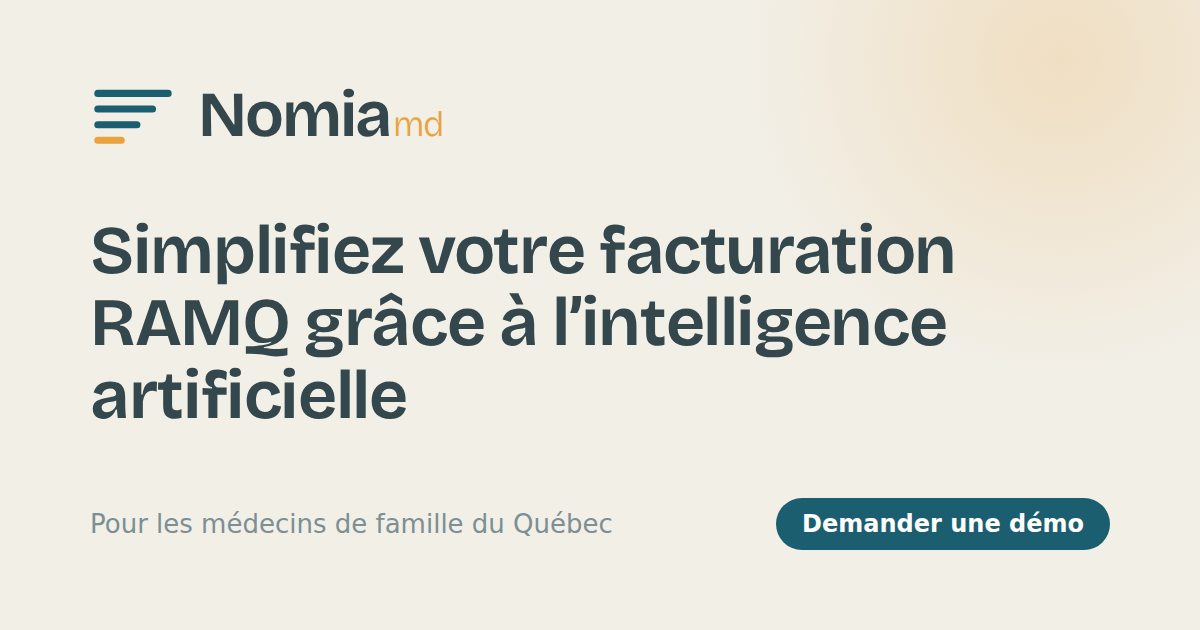
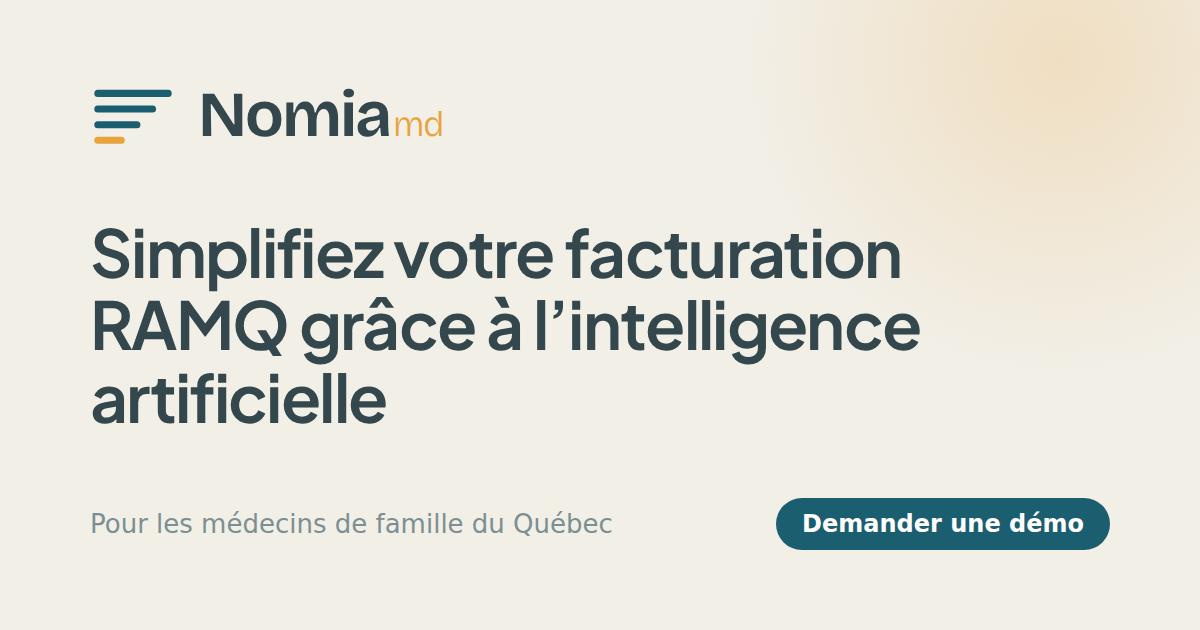
feat(frontend): switch headings to Plus Jakarta Sans
Self-hosted like Bricolage Grotesque, which the Logo wordmark keeps
through its own --font-wordmark token. The link-preview image is
regenerated with the new heading font.

Changed region(s): [[0.0617, 0.3317, 0.8017, 0.6937]]

diff --git a/frontend/src/styles.css b/frontend/src/styles.css
@@ -20,6 +20,14 @@
   src: url("/fonts/bricolage-grotesque.woff2") format("woff2");
 }
 
+@font-face {
+  font-family: "Plus Jakarta Sans";
+  font-style: normal;
+  font-weight: 200 800;
+  font-display: swap;
+  src: url("/fonts/plus-jakarta-sans.woff2") format("woff2");
+}
+
 :root {
   --color-bg: #f2efe7;
   --color-surface: #ffffff;
@@ -41,7 +49,9 @@
   --color-success-text: #3f6b35;
   --color-primary-tint: rgba(27, 94, 111, 0.08);
 
-  --font-display: "Bricolage Grotesque", -apple-system, "Segoe UI", system-ui, sans-serif;
+  --font-display: "Plus Jakarta Sans", -apple-system, "Segoe UI", system-ui, sans-serif;
+  /* The wordmark keeps its own typeface (Logo.tsx), independent of the headings'. */
+  --font-wordmark: "Bricolage Grotesque", -apple-system, "Segoe UI", system-ui, sans-serif;
   --font-body: -apple-system, BlinkMacSystemFont, "Segoe UI", "Helvetica Neue", Arial, sans-serif;
   --font-mono: "SF Mono", "IBM Plex Mono", Menlo, Consolas, "Liberation Mono", monospace;
 
@@ -156,6 +166,7 @@ h2 {
 
 @theme inline {
   --font-heading: var(--font-display);
+  --font-logo: var(--font-wordmark);
   --font-sans: var(--font-body);
   --color-sidebar-ring: var(--sidebar-ring);
   --color-sidebar-border: var(--sidebar-border);

diff --git a/frontend/src/Logo.tsx b/frontend/src/Logo.tsx
@@ -32,7 +32,7 @@ export function Logo({ size = 32, className }: LogoProps) {
     <span className={cn("inline-flex items-center gap-[0.6rem]", className)}>
       <Mark size={size} />
       <span
-        className="inline-flex items-baseline font-heading leading-none tracking-[-0.03em]"
+        className="inline-flex items-baseline font-logo leading-none tracking-[-0.03em]"
         style={{ fontSize: size * 0.85 }}
       >
         <span className="font-[650] text-foreground">Nomia</span>
